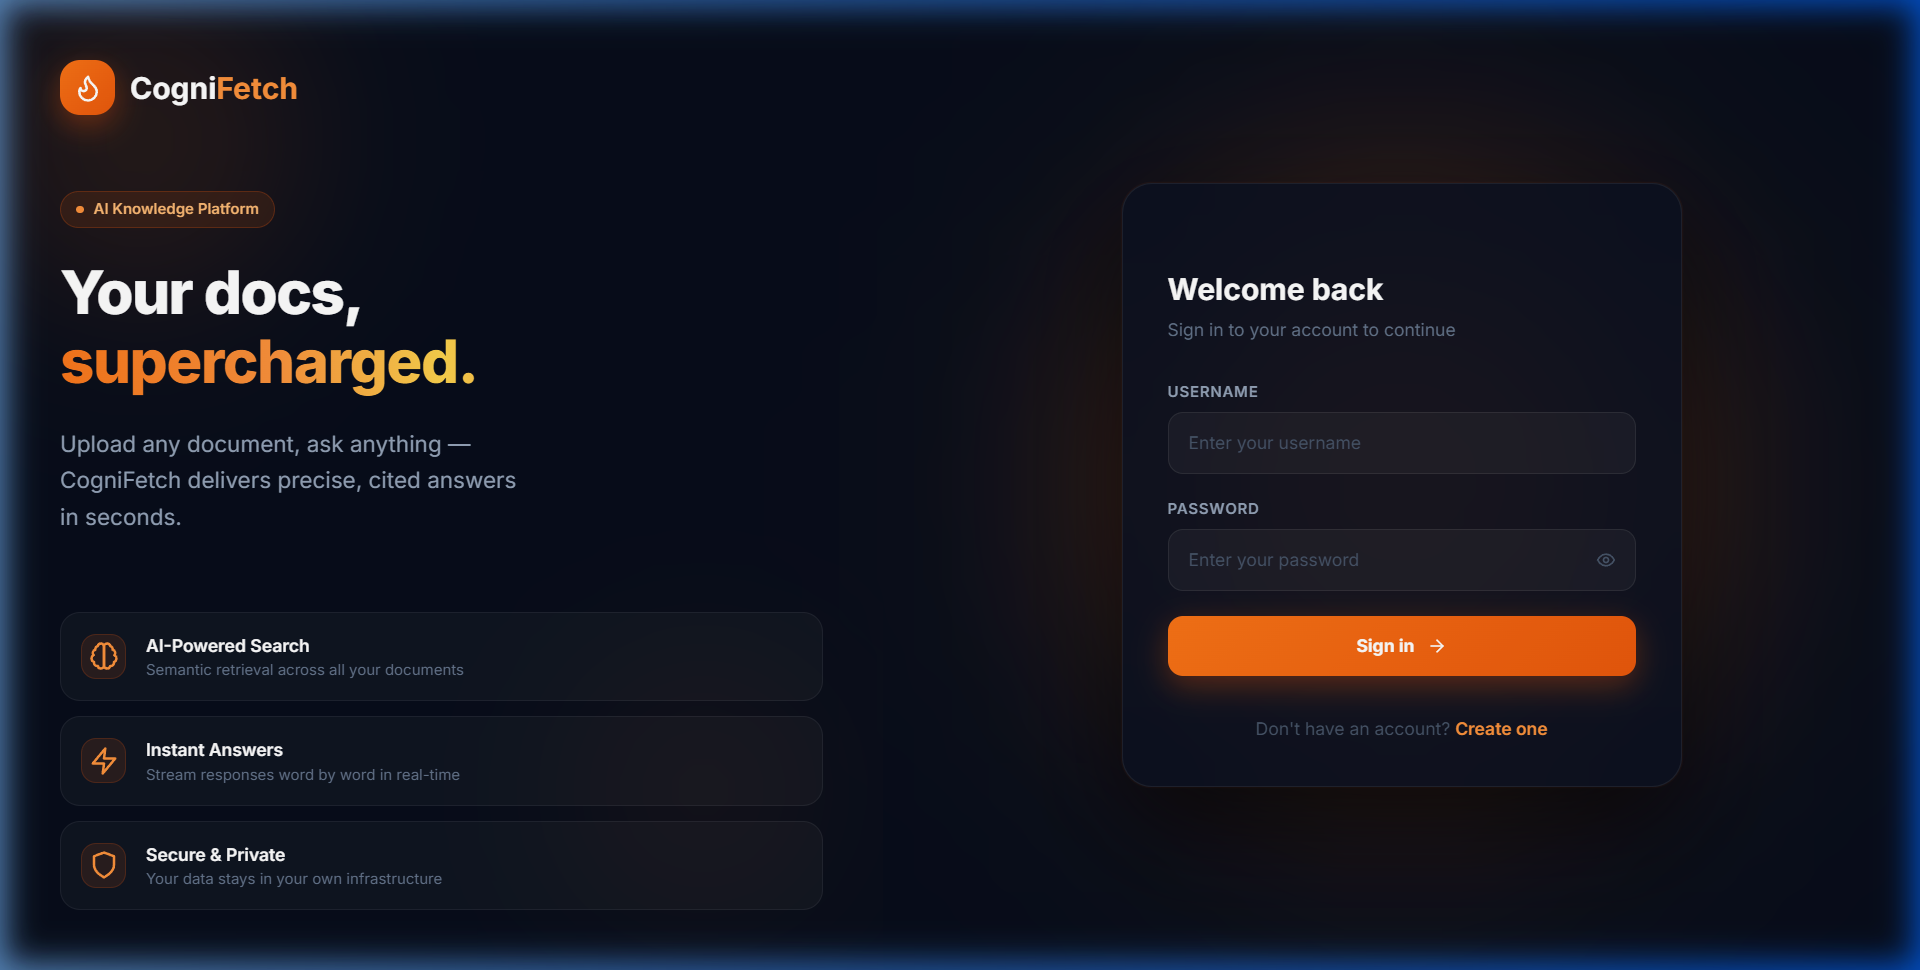
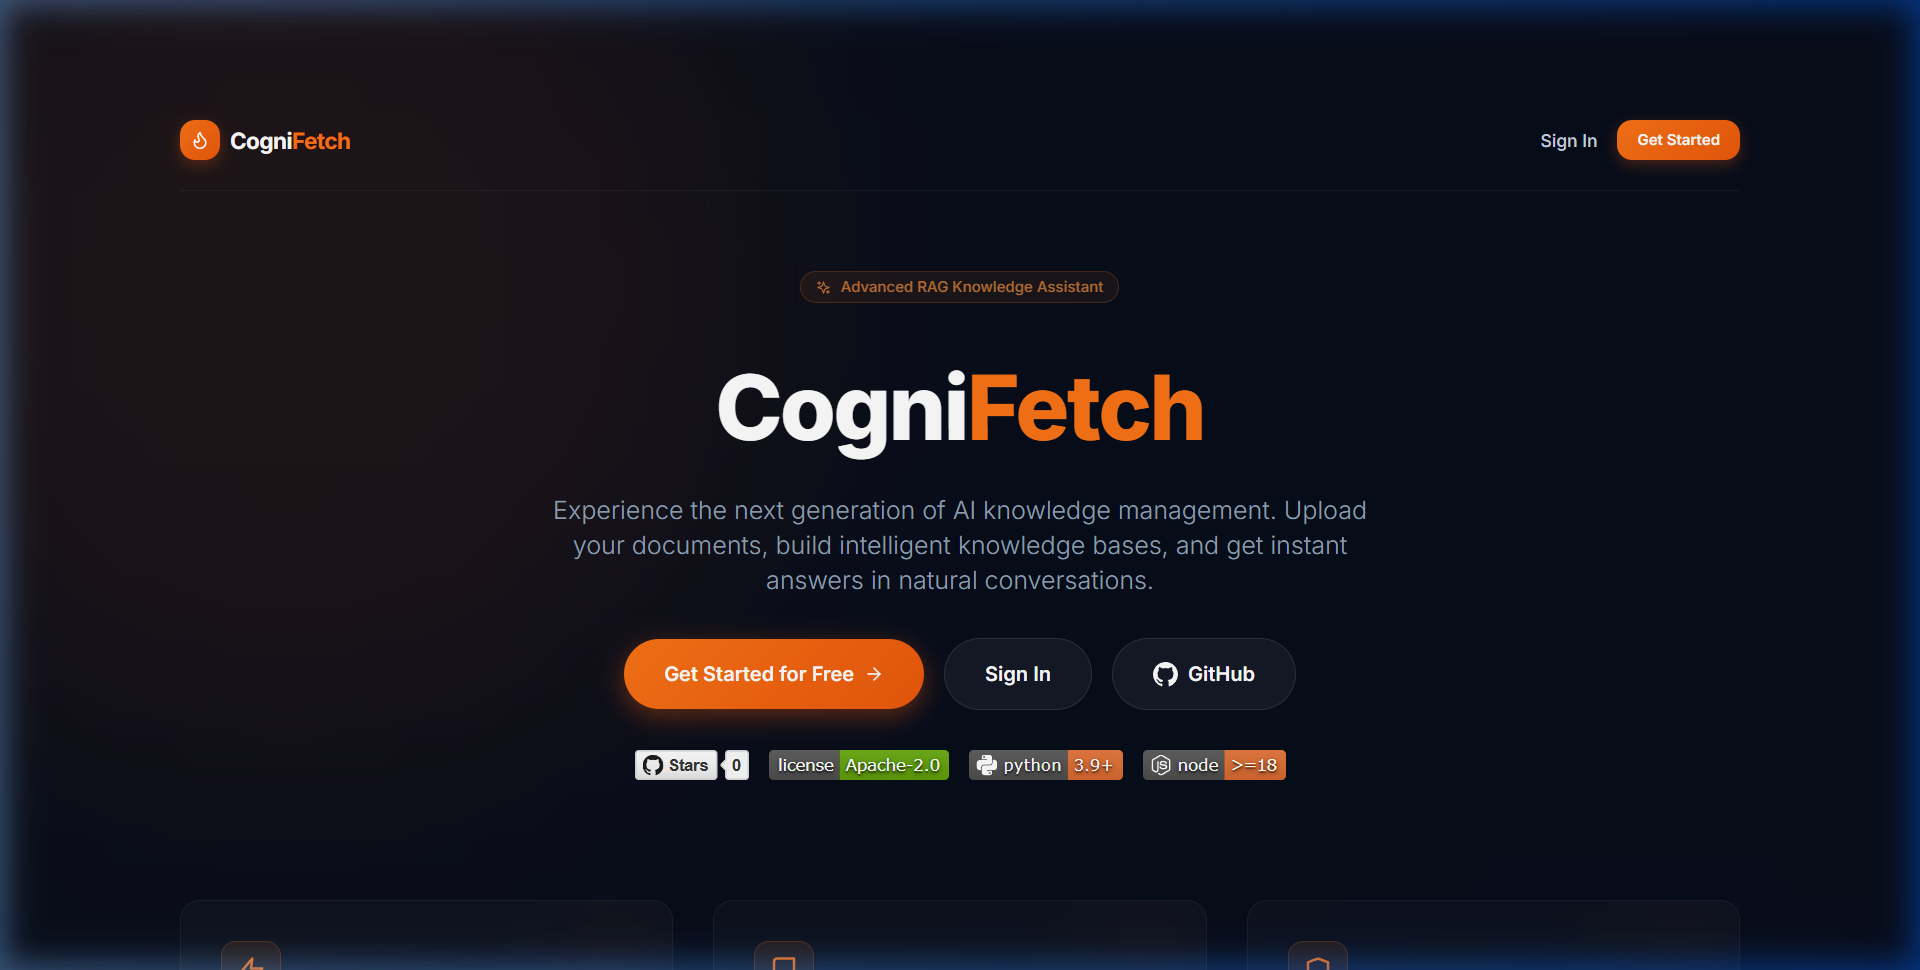
feat: rebrand home page UI theme to navy/orange & update screenshots

diff --git a/frontend/src/app/page.tsx b/frontend/src/app/page.tsx
@@ -1,164 +1,187 @@
 import Link from "next/link";
+import { Flame, ArrowRight, Book, Shield, Zap, Sparkles } from "lucide-react";
 
 export default function Home() {
   return (
-    <main className="min-h-screen bg-white text-black">
-      <div className="max-w-7xl mx-auto px-4 py-24">
-        {/* Hero Section */}
-        <div className="text-center space-y-8 mb-24">
-          <h1 className="text-6xl sm:text-7xl font-bold tracking-tight text-black">
-            RAG Web UI
-          </h1>
-          <p className="text-xl sm:text-2xl text-gray-500 max-w-3xl mx-auto font-light leading-relaxed">
-            Experience the next generation of AI interaction.
-            <br />
-            Powerful. Intuitive. Revolutionary.
-          </p>
-          <div className="flex flex-col sm:flex-row gap-6 justify-center items-center mt-12">
+    <main className="min-h-screen text-slate-300 relative overflow-hidden" style={{ background: "#070d1a" }}>
+      {/* Background radial glow */}
+      <div className="absolute top-[-10%] left-[-10%] w-[50%] h-[50%] rounded-full bg-orange-600/10 blur-[120px] pointer-events-none" />
+      <div className="absolute bottom-[-10%] right-[-10%] w-[50%] h-[50%] rounded-full bg-blue-600/10 blur-[120px] pointer-events-none" />
+
+      <div className="max-w-7xl mx-auto px-4 py-16 sm:py-24 relative z-10">
+        
+        {/* Navigation / Header */}
+        <header className="flex justify-between items-center mb-16 pb-6 border-b border-white/5">
+          <div className="flex items-center gap-2">
+            <div
+              className="w-8 h-8 rounded-lg flex items-center justify-center shadow-lg"
+              style={{
+                background: "linear-gradient(135deg, #f97316 0%, #ea580c 100%)",
+                boxShadow: "0 4px 12px rgba(234,88,12,0.3)",
+              }}
+            >
+              <Flame className="h-4 w-4 text-white" />
+            </div>
+            <span className="text-lg font-bold text-white tracking-tight">
+              Cogni<span className="text-orange-500">Fetch</span>
+            </span>
+          </div>
+          <div className="flex items-center gap-4">
+            <Link
+              href="/login"
+              className="text-sm font-medium hover:text-orange-400 transition-colors"
+            >
+              Sign In
+            </Link>
             <Link
               href="/register"
-              className="px-8 py-4 bg-blue-600 text-white rounded-full text-lg font-medium transition-all duration-300 hover:bg-blue-700 w-full sm:w-auto"
+              className="px-4 py-2 text-xs font-semibold text-white rounded-lg shadow-lg hover:scale-105 transition-transform"
+              style={{
+                background: "linear-gradient(135deg, #f97316 0%, #ea580c 100%)",
+                boxShadow: "0 4px 12px rgba(234,88,12,0.3)",
+              }}
             >
               Get Started
             </Link>
+          </div>
+        </header>
+
+        {/* Hero Section */}
+        <div className="text-center space-y-8 mb-24 max-w-4xl mx-auto">
+          <div className="inline-flex items-center gap-2 px-3 py-1 rounded-full border border-orange-500/30 bg-orange-500/10 text-orange-400 text-xs font-medium mb-4 animate-pulse">
+            <Sparkles className="h-3 w-3" />
+            Advanced RAG Knowledge Assistant
+          </div>
+
+          <h1 className="text-5xl sm:text-7xl font-extrabold tracking-tight text-white leading-tight">
+            Cogni<span className="text-orange-500">Fetch</span>
+          </h1>
+          <p className="text-lg sm:text-xl text-slate-400 max-w-2xl mx-auto font-light leading-relaxed">
+            Experience the next generation of AI knowledge management.
+            Upload your documents, build intelligent knowledge bases, and get instant answers in natural conversations.
+          </p>
+
+          <div className="flex flex-col sm:flex-row gap-4 justify-center items-center mt-12">
+            <Link
+              href="/register"
+              className="group flex items-center justify-center gap-2 px-8 py-4 text-white rounded-full text-base font-semibold transition-all duration-300 hover:opacity-90 shadow-lg w-full sm:w-auto"
+              style={{
+                background: "linear-gradient(135deg, #f97316 0%, #ea580c 100%)",
+                boxShadow: "0 6px 20px rgba(234,88,12,0.4)",
+              }}
+            >
+              Get Started for Free
+              <ArrowRight className="h-4 w-4 group-hover:translate-x-1 transition-transform" />
+            </Link>
             <Link
               href="/login"
-              className="px-8 py-4 bg-gray-200 text-gray-800 rounded-full text-lg font-medium transition-all duration-300 hover:bg-gray-300 w-full sm:w-auto"
+              className="flex items-center justify-center px-8 py-4 bg-white/5 hover:bg-white/10 text-white border border-white/10 rounded-full text-base font-semibold transition-all duration-300 w-full sm:w-auto"
             >
               Sign In
             </Link>
             <a
-              href="https://github.com/JohannLai/rag-web-ui"
+              href="https://github.com/Shreyans388/CogniFetch"
               target="_blank"
               rel="noopener noreferrer"
-              className="flex items-center justify-center gap-2 px-8 py-4 bg-gray-200 text-gray-800 rounded-full text-lg font-medium transition-all duration-300 hover:bg-gray-300 w-full sm:w-auto"
+              className="flex items-center justify-center gap-2 px-8 py-4 bg-white/5 hover:bg-white/10 text-white border border-white/10 rounded-full text-base font-semibold transition-all duration-300 w-full sm:w-auto"
             >
-              <svg className="w-5 h-5" viewBox="0 0 24 24" fill="currentColor">
+              <svg className="w-5 h-5 fill-current" viewBox="0 0 24 24">
                 <path d="M12 0c-6.626 0-12 5.373-12 12 0 5.302 3.438 9.8 8.207 11.387.599.111.793-.261.793-.577v-2.234c-3.338.726-4.033-1.416-4.033-1.416-.546-1.387-1.333-1.756-1.333-1.756-1.089-.745.083-.729.083-.729 1.205.084 1.839 1.237 1.839 1.237 1.07 1.834 2.807 1.304 3.492.997.107-.775.418-1.305.762-1.604-2.665-.305-5.467-1.334-5.467-5.931 0-1.311.469-2.381 1.236-3.221-.124-.303-.535-1.524.117-3.176 0 0 1.008-.322 3.301 1.23.957-.266 1.983-.399 3.003-.404 1.02.005 2.047.138 3.006.404 2.291-1.552 3.297-1.23 3.297-1.23.653 1.653.242 2.874.118 3.176.77.84 1.235 1.911 1.235 3.221 0 4.609-2.807 5.624-5.479 5.921.43.372.823 1.102.823 2.222v3.293c0 .319.192.694.801.576 4.765-1.589 8.199-6.086 8.199-11.386 0-6.627-5.373-12-12-12z" />
               </svg>
               GitHub
             </a>
           </div>
-          <div className="mt-12 flex justify-center space-x-4">
+          
+          <div className="mt-12 flex justify-center items-center gap-4 flex-wrap">
             <a
-              href="https://github.com/JohannLai/rag-web-ui"
+              href="https://github.com/Shreyans388/CogniFetch"
               target="_blank"
               rel="noopener noreferrer"
+              className="hover:opacity-80 transition-opacity"
             >
               <img
                 alt="GitHub stars"
-                src="https://img.shields.io/github/stars/JohannLai/rag-web-ui?style=social"
+                src="https://img.shields.io/github/stars/Shreyans388/CogniFetch?style=social"
                 className="h-6"
               />
             </a>
             <img
               alt="License"
-              src="https://img.shields.io/github/license/JohannLai/rag-web-ui"
+              src="https://img.shields.io/github/license/Shreyans388/CogniFetch"
               className="h-6"
             />
             <img
               alt="Python version"
-              src="https://img.shields.io/badge/python-3.9+-blue.svg"
+              src="https://img.shields.io/badge/python-3.9+-orange.svg?style=flat&logo=python&logoColor=white"
               className="h-6"
             />
             <img
               alt="Node version"
-              src="https://img.shields.io/badge/node-%3E%3D18-green.svg"
+              src="https://img.shields.io/badge/node-%3E%3D18-orange.svg?style=flat&logo=node.js&logoColor=white"
               className="h-6"
             />
           </div>
         </div>
 
         {/* Features Section */}
-        <div className="grid grid-cols-1 md:grid-cols-3 gap-12 mb-24">
-          <div className="text-center">
-            <div className="h-20 w-20 mx-auto rounded-full bg-blue-100 flex items-center justify-center mb-6">
-              <svg
-                className="h-10 w-10 text-blue-600"
-                fill="none"
-                viewBox="0 0 24 24"
-                stroke="currentColor"
-              >
-                <path
-                  strokeLinecap="round"
-                  strokeLinejoin="round"
-                  strokeWidth={2}
-                  d="M13 10V3L4 14h7v7l9-11h-7z"
-                />
-              </svg>
+        <div className="grid grid-cols-1 md:grid-cols-3 gap-8 mb-24">
+          <div className="p-8 rounded-2xl border border-white/5 hover:border-orange-500/20 transition-colors duration-300 relative group overflow-hidden" style={{ background: "rgba(255,255,255,0.02)" }}>
+            <div className="absolute top-0 right-0 w-24 h-24 bg-orange-600/5 rounded-full blur-2xl group-hover:bg-orange-600/10 transition-colors" />
+            <div className="h-12 w-12 rounded-xl flex items-center justify-center mb-6" style={{ background: "rgba(249,115,22,0.1)", border: "1px solid rgba(249,115,22,0.2)" }}>
+              <Zap className="h-6 w-6 text-orange-500" />
             </div>
-            <h3 className="text-2xl font-semibold text-black mb-4">
+            <h3 className="text-xl font-semibold text-white mb-4">
               Powerful RAG Engine
             </h3>
-            <p className="text-gray-500 leading-relaxed">
-              Harness the power of state-of-the-art AI models with our
-              advanced retrieval and generation system. Built for performance
-              and scalability.
+            <p className="text-slate-400 leading-relaxed text-sm">
+              Harness state-of-the-art AI models with our advanced retrieval-augmented generation engine, optimized for accurate, cite-backed answers.
             </p>
           </div>
 
-          <div className="text-center">
-            <div className="h-20 w-20 mx-auto rounded-full bg-blue-100 flex items-center justify-center mb-6">
-              <svg
-                className="h-10 w-10 text-blue-600"
-                fill="none"
-                viewBox="0 0 24 24"
-                stroke="currentColor"
-              >
-                <path
-                  strokeLinecap="round"
-                  strokeLinejoin="round"
-                  strokeWidth={2}
-                  d="M12 6V4m0 2a2 2 0 100 4m0-4a2 2 0 110 4m-6 8a2 2 0 100-4m0 4a2 2 0 110-4m0 4v2m0-6V4m6 6v10m6-2a2 2 0 100-4m0 4a2 2 0 110-4m0 4v2m0-6V4"
-                />
-              </svg>
+          <div className="p-8 rounded-2xl border border-white/5 hover:border-orange-500/20 transition-colors duration-300 relative group overflow-hidden" style={{ background: "rgba(255,255,255,0.02)" }}>
+            <div className="absolute top-0 right-0 w-24 h-24 bg-orange-600/5 rounded-full blur-2xl group-hover:bg-orange-600/10 transition-colors" />
+            <div className="h-12 w-12 rounded-xl flex items-center justify-center mb-6" style={{ background: "rgba(249,115,22,0.1)", border: "1px solid rgba(249,115,22,0.2)" }}>
+              <Book className="h-6 w-6 text-orange-500" />
             </div>
-            <h3 className="text-2xl font-semibold text-black mb-4">
-              Seamless Integration
+            <h3 className="text-xl font-semibold text-white mb-4">
+              Seamless Document Ingestion
             </h3>
-            <p className="text-gray-500 leading-relaxed">
-              Effortlessly connect with your existing tech stack. Our flexible
-              API and comprehensive SDK make integration a breeze.
+            <p className="text-slate-400 leading-relaxed text-sm">
+              Supporting PDF, DOCX, Markdown, and TXT. Files are chunked, vectorized, and cataloged automatically for instant search readiness.
             </p>
           </div>
 
-          <div className="text-center">
-            <div className="h-20 w-20 mx-auto rounded-full bg-blue-100 flex items-center justify-center mb-6">
-              <svg
-                className="h-10 w-10 text-blue-600"
-                fill="none"
-                viewBox="0 0 24 24"
-                stroke="currentColor"
-              >
-                <path
-                  strokeLinecap="round"
-                  strokeLinejoin="round"
-                  strokeWidth={2}
-                  d="M9 19v-6a2 2 0 00-2-2H5a2 2 0 00-2 2v6a2 2 0 002 2h2a2 2 0 002-2zm0 0V9a2 2 0 012-2h2a2 2 0 012 2v10m-6 0a2 2 0 002 2h2a2 2 0 002-2m0 0V5a2 2 0 012-2h2a2 2 0 012 2v14a2 2 0 01-2 2h-2a2 2 0 01-2-2z"
-                />
-              </svg>
+          <div className="p-8 rounded-2xl border border-white/5 hover:border-orange-500/20 transition-colors duration-300 relative group overflow-hidden" style={{ background: "rgba(255,255,255,0.02)" }}>
+            <div className="absolute top-0 right-0 w-24 h-24 bg-orange-600/5 rounded-full blur-2xl group-hover:bg-orange-600/10 transition-colors" />
+            <div className="h-12 w-12 rounded-xl flex items-center justify-center mb-6" style={{ background: "rgba(249,115,22,0.1)", border: "1px solid rgba(249,115,22,0.2)" }}>
+              <Shield className="h-6 w-6 text-orange-500" />
             </div>
-            <h3 className="text-2xl font-semibold text-black mb-4">
-              Real-time Analytics
+            <h3 className="text-xl font-semibold text-white mb-4">
+              Sleek & Secure Platform
             </h3>
-            <p className="text-gray-500 leading-relaxed">
-              Gain deep insights into your RAG system's performance with our
-              comprehensive analytics dashboard and monitoring tools.
+            <p className="text-slate-400 leading-relaxed text-sm">
+              Keep full control with localized database storage, customizable API keys, and customizable embedding or LLM providers.
             </p>
           </div>
         </div>
 
         {/* Call to Action */}
-        <div className="text-center bg-gray-100 rounded-3xl p-16">
-          <h2 className="text-4xl font-bold mb-6">Ready to get started?</h2>
-          <p className="text-xl text-gray-500 mb-8 max-w-2xl mx-auto">
-            Join thousands of developers who are already building the future with RAG Web UI.
+        <div className="text-center rounded-3xl p-12 sm:p-16 border border-white/5 relative overflow-hidden" style={{ background: "linear-gradient(135deg, #0a1020 0%, #080e1c 100%)" }}>
+          <div className="absolute top-[-50%] left-[-20%] w-[60%] h-[120%] bg-orange-500/5 rounded-full blur-[100px] pointer-events-none" />
+          
+          <h2 className="text-3xl sm:text-4xl font-extrabold text-white mb-6">Ready to search smarter?</h2>
+          <p className="text-base sm:text-lg text-slate-400 mb-8 max-w-xl mx-auto font-light">
+            Bring your own files, choose your models, and start querying your custom data in seconds.
           </p>
           <Link
             href="/register"
-            className="px-8 py-4 bg-blue-600 text-white rounded-full text-lg font-medium transition-all duration-300 hover:bg-blue-700"
+            className="inline-flex px-8 py-4 text-white rounded-full text-base font-semibold transition-all duration-300 hover:opacity-90 shadow-lg"
+            style={{
+              background: "linear-gradient(135deg, #f97316 0%, #ea580c 100%)",
+              boxShadow: "0 6px 20px rgba(234,88,12,0.35)",
+            }}
           >
-            Try it for free
+            Try CogniFetch for Free
           </Link>
         </div>
       </div>

diff --git a/backend/app/core/config.py b/backend/app/core/config.py
@@ -5,7 +5,7 @@ from pydantic_settings import BaseSettings
 
 
 class Settings(BaseSettings):
-    PROJECT_NAME: str = "RAG Web UI"  # Project name
+    PROJECT_NAME: str = "CogniFetch"  # Project name
     VERSION: str = "0.1.0"  # Project version
     API_V1_STR: str = "/api"  # API version string
 

diff --git a/backend/app/main.py b/backend/app/main.py
@@ -34,7 +34,7 @@ async def startup_event():
 
 @app.get("/")
 def root():
-    return {"message": "Welcome to RAG Web UI API"}
+    return {"message": "Welcome to CogniFetch API"}
 
 
 @app.get("/api/health")